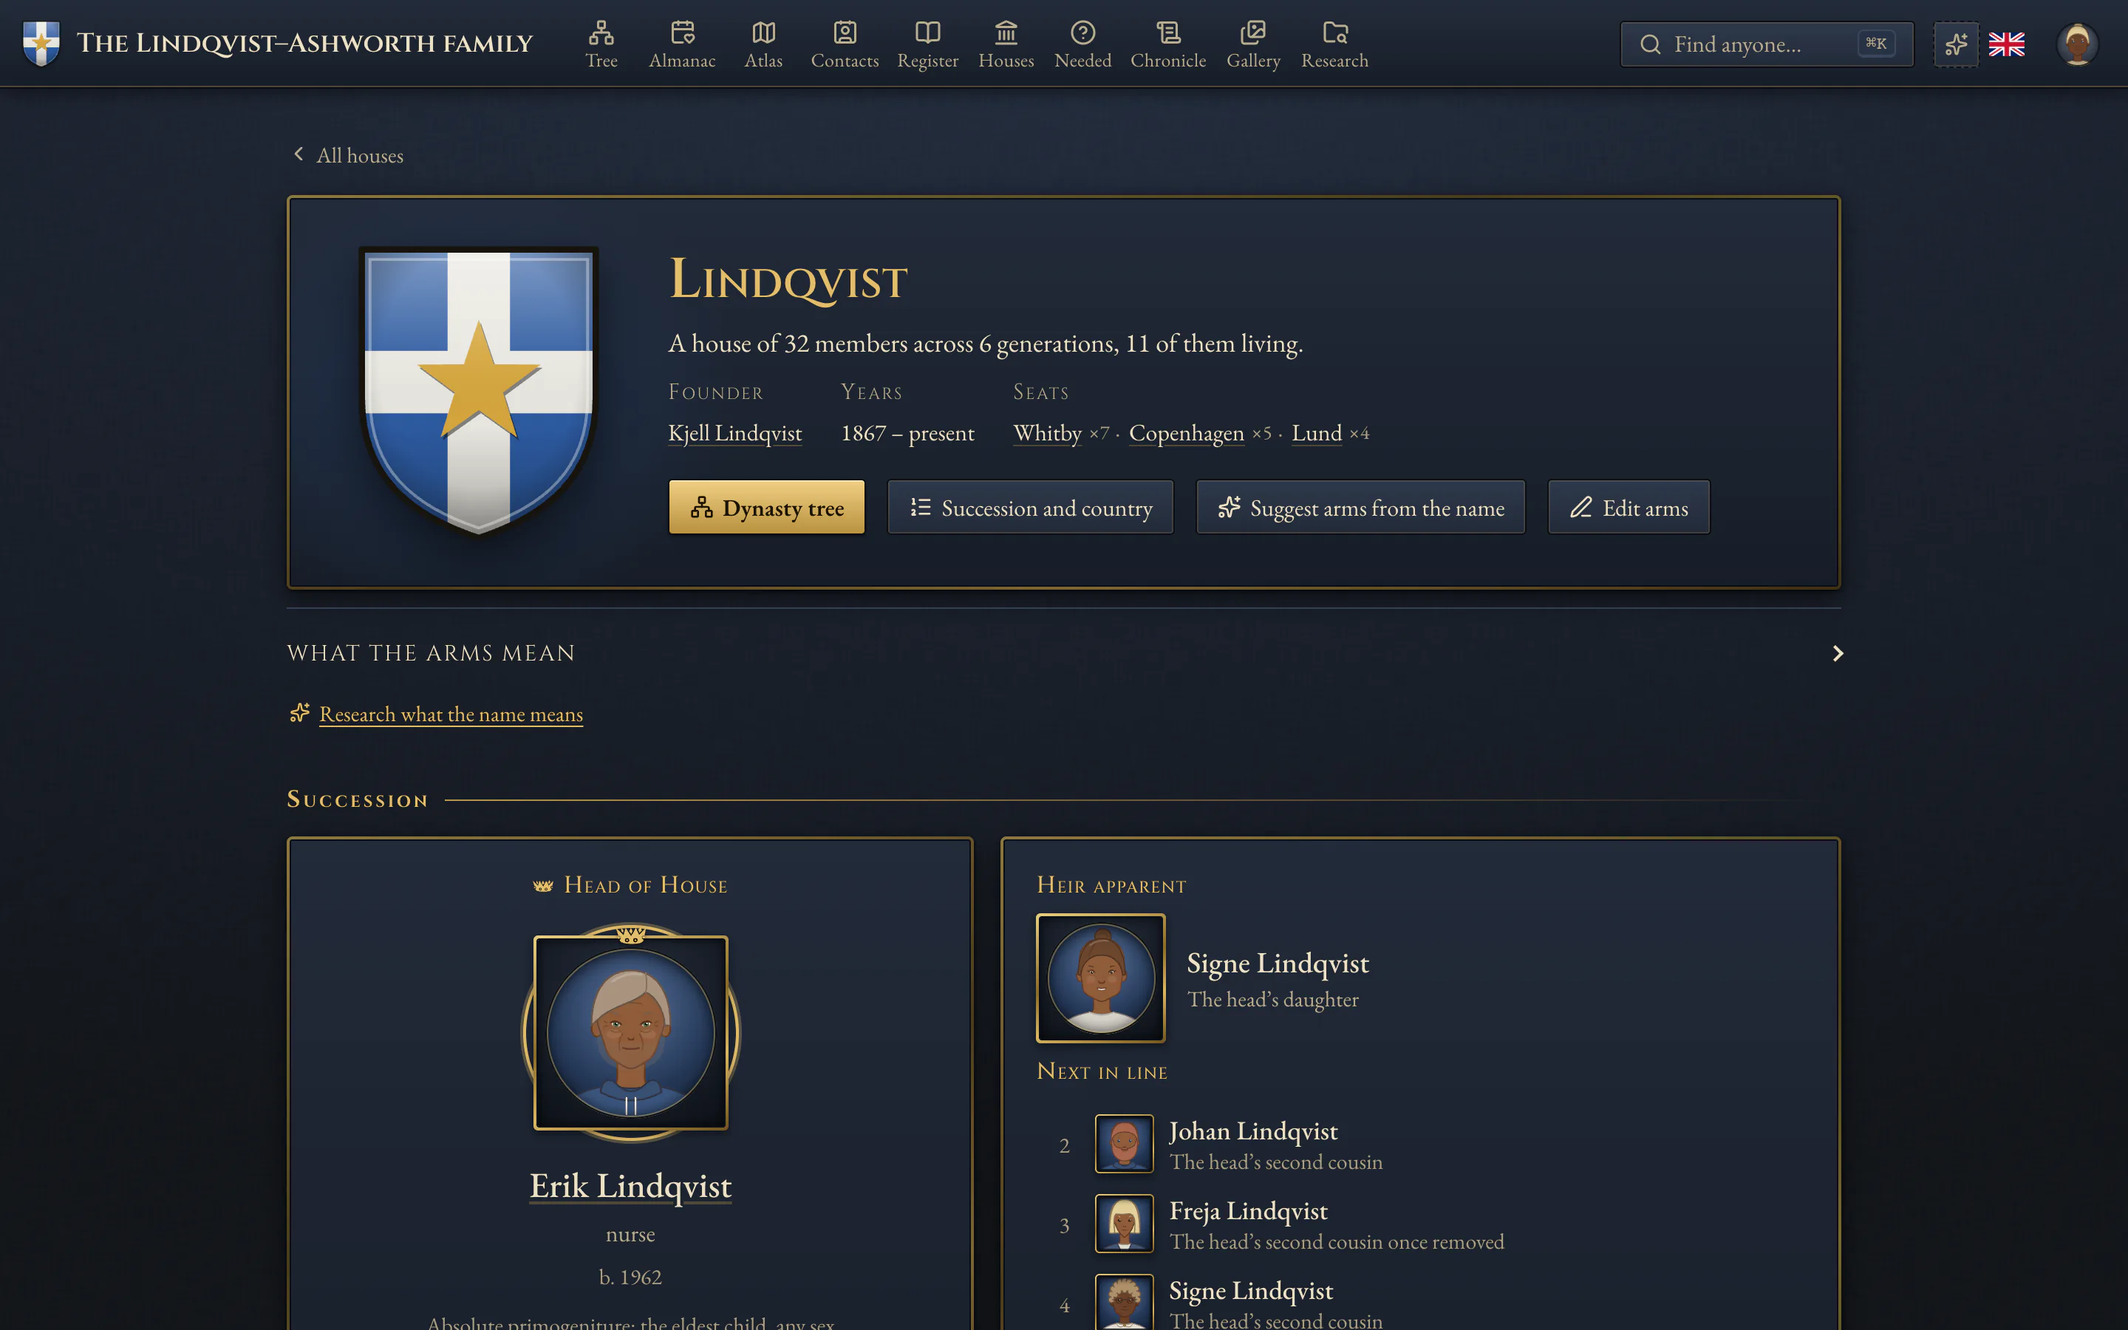
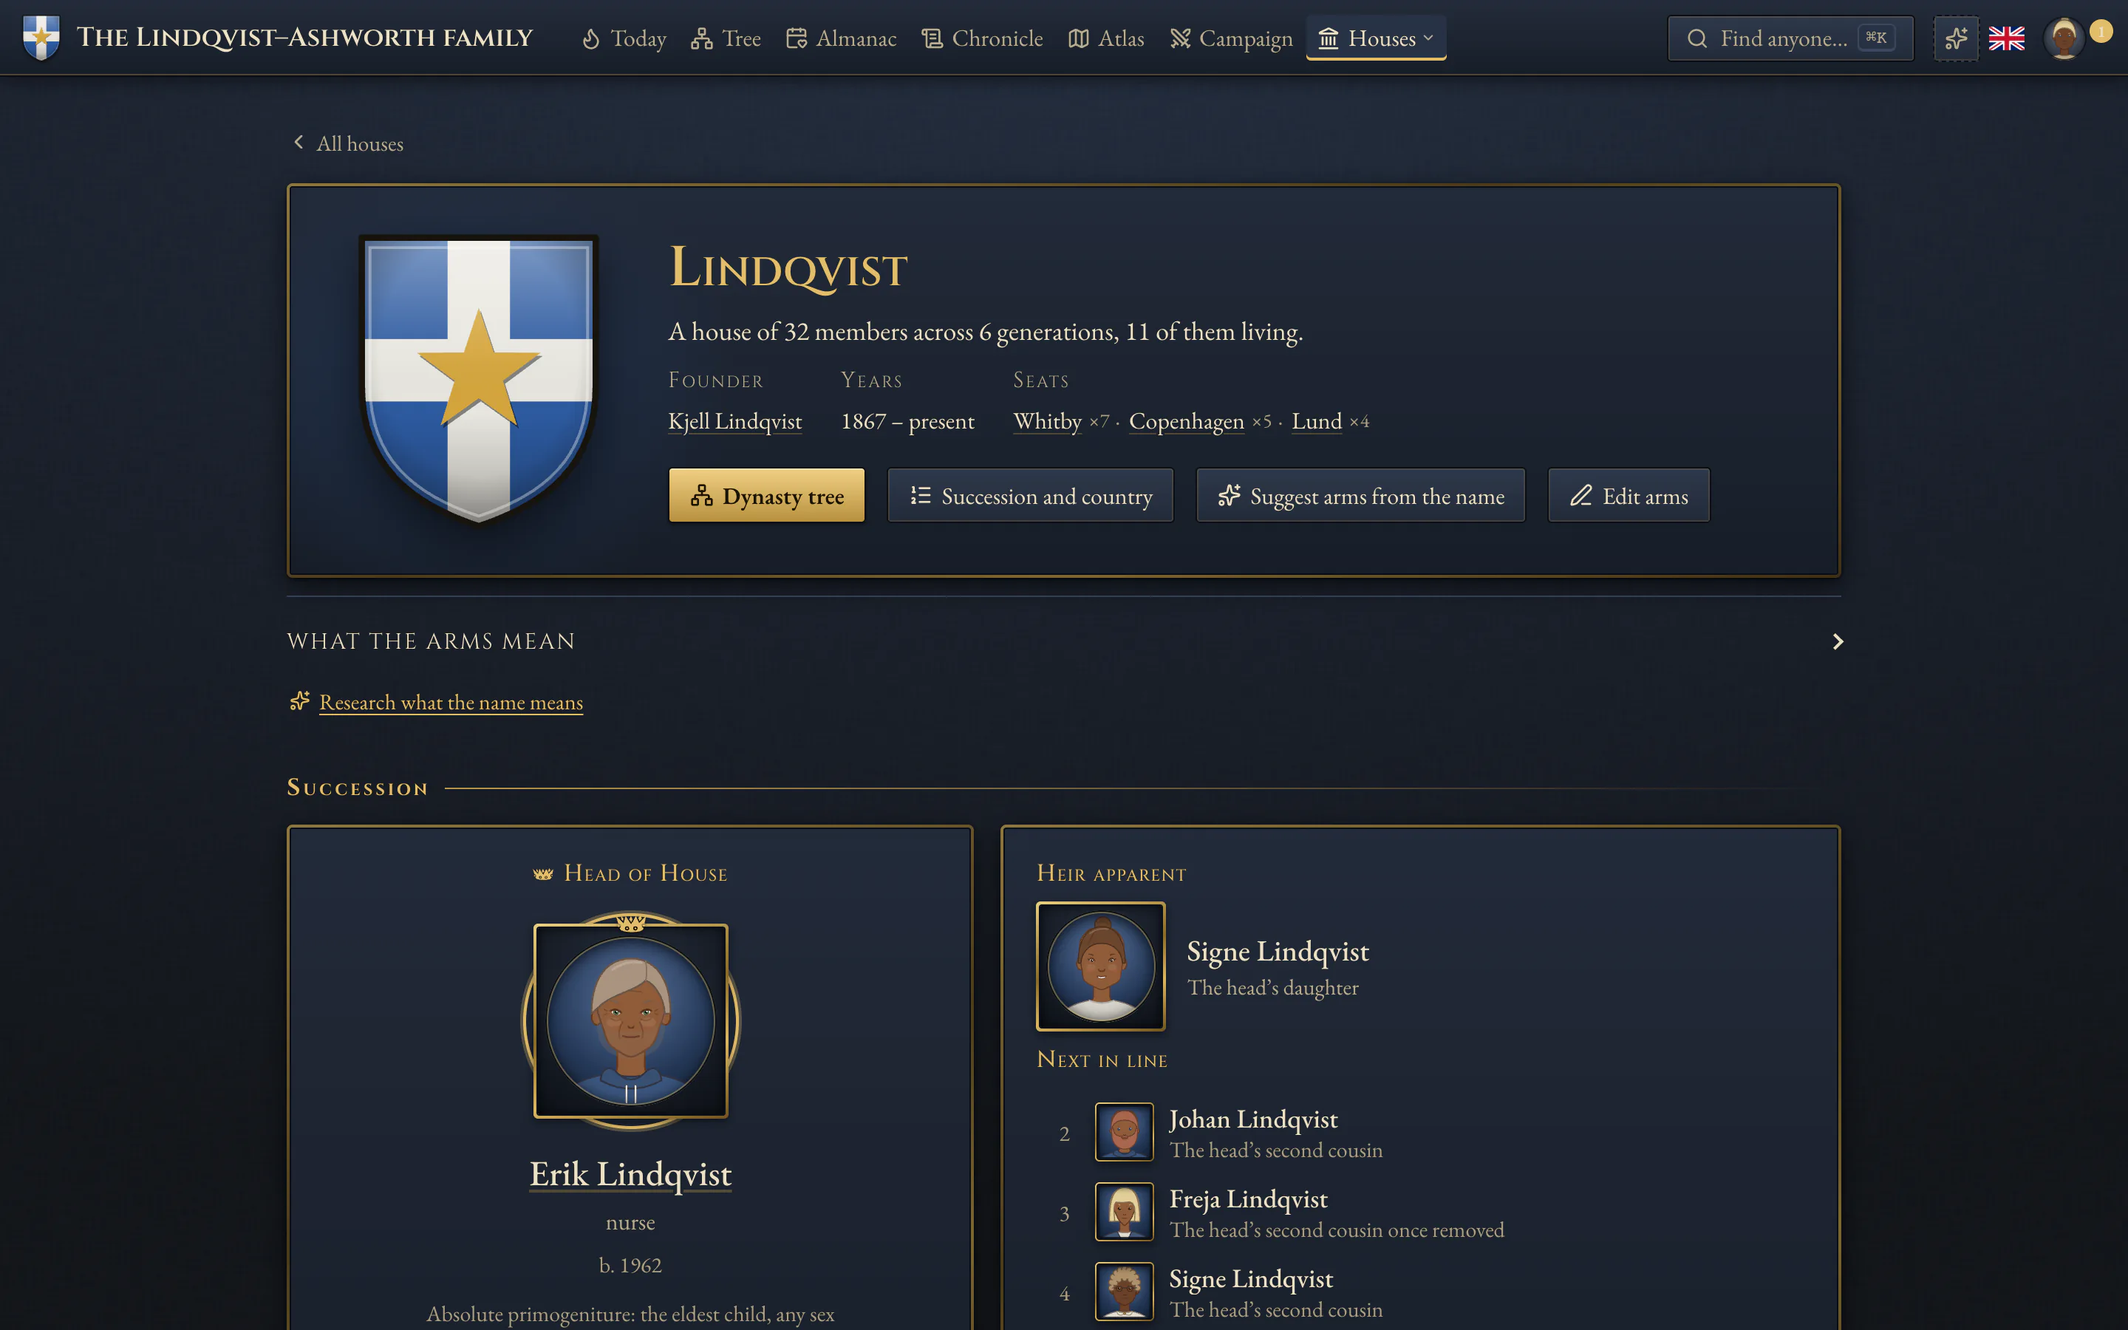
docs(screenshots): add Today, the Campaign and the family book, and retake the rest on a fixed clock

diff --git a/scripts/screenshots.ts b/scripts/screenshots.ts
@@ -7,11 +7,15 @@
 //   --use-dist  skip the build and serve the dist/ that is already there (built with KINDRED_TARGET=node)
 //   --only      take just these pictures (names as in SHOTS below)
 //   --out       write the pictures here instead of docs/images/
+//   --keep-png  also leave the full-size PNGs beside the WebP files (to look at them)
+// The server runs on a clock of its own (scripts/lib/shot-clock.ts): first on 3 November 2026, when the steward turns the
+// Campaign on and a relative is invited, then on 7 November, the day the invented modern family is set on, so the season is
+// four days old, the week's question is the same every time, and the pictures differ between runs only where the data does.
 // Screenshots are PNG from Playwright; cwebp (brew install webp) makes the WebP files, at the best quality that fits
 // MAX_BYTES. The scratch folder and the server are removed again whether or not a step fails.
 import { chromium, type BrowserContext, type Page } from '@playwright/test';
 import { spawn, spawnSync, type ChildProcess } from 'node:child_process';
-import { existsSync, mkdirSync, mkdtempSync, readFileSync, rmSync, statSync, writeFileSync } from 'node:fs';
+import { copyFileSync, existsSync, mkdirSync, mkdtempSync, readFileSync, rmSync, statSync, writeFileSync } from 'node:fs';
 import { createServer } from 'node:net';
 import { tmpdir } from 'node:os';
 import { join, resolve } from 'node:path';
@@ -22,6 +26,7 @@ process.chdir(root);
 const args = process.argv.slice(2);
 const useDist = args.includes('--use-dist');
 const flagValue = (name: string) => { const i = args.indexOf(name); return i >= 0 ? args[i + 1] : undefined; };
+const keepPng = args.includes('--keep-png');
 const only = flagValue('--only')?.split(',');
 const outDir = resolve(flagValue('--out') ?? 'docs/images');
 
@@ -30,6 +35,9 @@ const executablePath = process.env.KINDRED_E2E_BROWSER || (existsSync(BRAVE) ? B
 const SETUP_CODE = 'SHOT-TEST-SETUP-CODE';
 /** The size every picture is taken at: CSS pixels, at twice the density. */
 const VIEWPORT = { width: 1440, height: 900 };
+/** The day the invented modern family is set on (gen-modern.ts), and the day the Campaign's season began four days before. */
+const NOW = '2026-11-07T12:00:00Z';
+const SEASON_START = '2026-11-03T12:00:00Z';
 /** Aim for no more than this per WebP file (cwebp's size search lands a little over or under), in bytes: the README is the front page and loads four or five of them. */
 const MAX_BYTES = 145_000;
 
@@ -87,10 +95,10 @@ async function createAccount(page: Page, origin: string, name: string) {
   await page.waitForURL((u) => !u.pathname.startsWith('/setup'), { timeout: 30_000 });
 }
 
-/** Opens a family's tree and answers "Who are you in this family?" with the person the seed opens on. */
-async function sayWhoIAm(page: Page, origin: string, tree: string) {
+/** Opens a family's tree and answers "Who are you in this family?" with the given person (the one the seed opens on by default). */
+async function sayWhoIAm(page: Page, origin: string, tree: string, personId?: string) {
   const s = seed(tree);
-  const me = s.people.find((p) => p.id === s.focus)!;
+  const me = s.people.find((p) => p.id === (personId ?? s.focus))!;
   await page.goto(`${origin}/${tree}`);
   const dialog = page.getByRole('dialog');
   await dialog.waitFor({ timeout: 20_000 });
@@ -103,7 +111,77 @@ async function sayWhoIAm(page: Page, origin: string, tree: string) {
   await offer.getByRole('button', { name: 'Not now' }).click({ timeout: 8000 }).catch(() => undefined);
 }
 
-interface Shot { name: string; run(page: Page, origin: string): Promise<void> }
+/** A steward makes an invitation link on the Access page, the way the page's own button does. */
+async function invite(page: Page, origin: string, tree: string): Promise<string> {
+  await page.goto(`${origin}/${tree}/access`);
+  await settle(page);
+  await page.getByRole('button', { name: 'Invite someone' }).first().click();
+  const dialog = page.getByRole('dialog');
+  await dialog.getByRole('button', { name: 'Make an invitation link' }).click();
+  const url = await dialog.getByRole('textbox', { name: 'Invitation link' }).inputValue();
+  await dialog.getByRole('button', { name: 'Done' }).click();
+  return url;
+}
+
+/** A relative opens an invitation in a browser of their own (with a virtual passkey) and says who they are. */
+async function joinByInvite(page: Page, origin: string, url: string, name: string, tree: string, personId: string) {
+  const cdp = await page.context().newCDPSession(page);
+  await cdp.send('WebAuthn.enable', { enableUI: false });
+  await cdp.send('WebAuthn.addVirtualAuthenticator', {
+    options: { protocol: 'ctap2', transport: 'internal', hasResidentKey: true, hasUserVerification: true, isUserVerified: true, automaticPresenceSimulation: true },
+  });
+  await page.goto(url.replace(/^https?:\/\/[^/]+/, origin));
+  await page.getByRole('textbox', { name: 'What should the family call you?' }).fill(name);
+  await page.getByRole('button', { name: 'Create your passkey' }).click();
+  await page.waitForURL((u) => !u.pathname.startsWith('/invite'), { timeout: 30_000 }).catch(() => undefined);
+  await sayWhoIAm(page, origin, tree, personId);
+}
+
+/** Switches a game on or off under Games, as a steward does. */
+async function setGame(page: Page, origin: string, tree: string, name: string, on: boolean) {
+  await page.goto(`${origin}/${tree}/settings/games`);
+  await settle(page);
+  const toggle = page.getByRole('switch', { name });
+  if ((await toggle.getAttribute('aria-checked')) !== String(on)) await toggle.click();
+  await page.locator(`[role="switch"][aria-checked="${on}"]`).first().waitFor();
+}
+
+/** Answers this week's question on Today from the person the dialog starts with (the reader, if they said who they are). */
+async function answerQuestion(page: Page, origin: string, tree: string, text: string) {
+  await page.goto(`${origin}/${tree}/today`);
+  await settle(page);
+  const week = page.getByRole('region', { name: 'Question of the week' });
+  await week.getByRole('button', { name: 'Tell your story' }).click();
+  const dialog = page.getByRole('dialog', { name: 'Your answer' });
+  await dialog.getByLabel('What do you remember?').fill(text);
+  await dialog.getByRole('button', { name: 'Share with the family' }).click();
+  await dialog.waitFor({ state: 'detached' });
+  await week.getByRole('heading', { name: /answers? this week/ }).waitFor();
+}
+
+/**
+ * Takes today's quiz. The choices come in an order the server's seed fixes (family, day), and on 7 November that gives the
+ * same question every run, so the picture shows a right answer by taking the choice that is right on that day: the second.
+ */
+const QUIZ_PICK = 1;
+/** (The server judges; a different day would only make the picture show "Not quite".) */
+async function takeQuiz(page: Page, origin: string, tree: string) {
+  await page.goto(`${origin}/${tree}/today`);
+  await settle(page);
+  const quiz = page.getByRole('region', { name: 'Do you know your family?' });
+  const radios = quiz.getByRole('radio');
+  if (await radios.count()) await radios.nth(QUIZ_PICK).check();
+  await quiz.getByRole('button', { name: 'That is my answer' }).click();
+  await quiz.getByRole('status').waitFor();
+}
+
+interface Shot { name: string; /** The viewport's height, for a page that wants more than 900 px. */ height?: number; run(page: Page, origin: string): Promise<void> }
+
+/** What the family writes in answer to the week's question on 7 November ("What did the kitchen of your childhood look like?"): invented, and short enough to read in a picture. */
+const ANSWERS = {
+  steward: 'A wood stove that was never allowed to go out, a yellow oilcloth on the table, and a jar of cardamom buns on the shelf above the sink. It smelled of coffee from five in the morning.',
+  relative: 'It was small and always warm. Everyone sat on the bench along the wall, so there was never a chair for the person who was cooking, and my aunt Signe stood and stirred the whole time.',
+};
 
 const SHOTS: Shot[] = [
   {
@@ -117,14 +195,54 @@ const SHOTS: Shot[] = [
   {
     name: 'person',
     async run(page, origin) {
-      await page.goto(`${origin}/realm/person/p0001`);
+      await page.goto(`${origin}/modern/person/p0061`);
+      await settle(page);
       await grab(page, 'person');
+    },
+  },
+  {
+    name: 'today',
+    height: 1700,
+    async run(page, origin) {
+      await page.goto(`${origin}/modern/today`);
+      await settle(page);
+      await grab(page, 'today');
+    },
+  },
+  {
+    name: 'campaign',
+    height: 1085,
+    async run(page, origin) {
+      await page.goto(`${origin}/modern/campaign`);
+      await settle(page);
+      // A province of the house with an order on it: raise its garrison, then get an attack on a neighbour ready to send.
+      await page.locator('.cm-prov[data-mine]').first().click();
+      const orders = page.getByRole('complementary', { name: 'Your orders' });
+      await orders.getByRole('button', { name: /^Muster \d+ troops? at / }).click();
+      await orders.getByRole('region', { name: 'Chronicle of the campaign' }).or(page.getByRole('region', { name: 'Chronicle of the campaign' })).getByText(/mustered/).first().waitFor();
+      await orders.getByRole('button', { name: 'Attack' }).first().click();
+      await orders.getByLabel(/battle cry/i).fill('For Grandma!');
+      await grab(page, 'campaign');
+    },
+  },
+  {
+    name: 'book',
+    height: 1210,
+    async run(page, origin) {
+      await page.goto(`${origin}/modern/print?product=book&scope=person&person=p0146`);
+      await settle(page);
+      await page.locator('.pr-doc').and(page.locator('[data-ready="true"]')).waitFor();
+      // The person's own page, the one after the cover and the contents.
+      await page.locator('.pr-sheet').nth(2).scrollIntoViewIfNeeded();
+      await page.locator('.pr-sheet').nth(2).evaluate((el) => el.scrollIntoView({ block: 'start' }));
+      await grab(page, 'book');
     },
   },
   {
     name: 'house',
     async run(page, origin) {
       await page.goto(`${origin}/modern/house/lindqvist`);
+      await settle(page);
       await grab(page, 'house');
     },
   },
@@ -133,7 +251,14 @@ const SHOTS: Shot[] = [
     async run(page, origin) {
       await page.goto(`${origin}/modern/atlas`);
       await settle(page);
-      await page.getByRole('button', { name: /Show all/ }).click();
+      // Zoom out until every place is in view (the note about places beyond the view goes), as a visitor would with the wheel.
+      await page.mouse.move(1100, 450);
+      for (let i = 0; i < 8 && (await page.locator('.atlas-scope-btn').count()); i++) {
+        await page.mouse.wheel(0, 120);
+        await sleep(500);
+      }
+      await page.mouse.move(0, 0);
+      await settle(page);
       await grab(page, 'atlas');
     },
   },
@@ -161,9 +286,9 @@ const SHOTS: Shot[] = [
         reducedMotion: 'reduce',
       });
       try {
-        await phone.clock.install({ time: new Date('2026-11-07T12:00:00Z') });
+        await phone.clock.install({ time: new Date(NOW) });
         const small = await phone.newPage();
-        await small.goto(`${origin}/modern?focus=p0084`);
+        await small.goto(`${origin}/modern/today`);
         await grab(small, 'phone');
       } finally {
         await phone.close();
@@ -196,11 +321,13 @@ function toWebp(name: string) {
   mkdirSync(outDir, { recursive: true });
   const target = join(outDir, `${name}.webp`);
   sh(`cwebp ${name}`, 'cwebp', ['-quiet', '-m', '6', '-pass', '10', '-sharp_yuv', '-size', String(MAX_BYTES), join(raw, `${name}.png`), '-o', target]);
+  if (keepPng) copyFileSync(join(raw, `${name}.png`), join(outDir, `${name}.png`));
   log(`  ${name}.webp  ${(statSync(target).size / 1024).toFixed(1)} kB`);
 }
 
-async function startServer(port: number, origin: string) {
-  server = spawn(process.execPath, ['server/node.ts'], {
+async function startServer(port: number, origin: string, now: string) {
+  serverLog = '';
+  server = spawn(process.execPath, ['--import', join(root, 'scripts/lib/shot-clock.ts'), 'server/node.ts'], {
     cwd: root,
     stdio: ['ignore', 'pipe', 'pipe'],
     env: {
@@ -213,6 +340,7 @@ async function startServer(port: number, origin: string) {
       KINDRED_AI_FAKE: '1',
       KINDRED_JOBS: 'off',
       KINDRED_SETUP_CODE: SETUP_CODE,
+      KINDRED_SHOT_NOW: now,
     },
   });
   const keep = (d: Buffer) => { serverLog = (serverLog + d.toString()).slice(-4000); };
@@ -253,31 +381,36 @@ async function main() {
   sh('gen-modern', process.execPath, ['scripts/gen-modern.ts']);
   sh('seed', process.execPath, ['scripts/seed.ts', 'data/seed/realm.json', 'data/seed/modern.json'], { KINDRED_DATA_DIR: dataDir });
 
-  const port = await freePort(5361);
+  const port = await freePort(4632);
   const origin = `http://localhost:${port}`;
   log(`starting the server on ${origin}`);
-  await startServer(port, origin);
+  await startServer(port, origin, SEASON_START);
 
   const browser = await chromium.launch({ executablePath, args: ['--hide-scrollbars'] });
   try {
-    const context: BrowserContext = await browser.newContext({
-      viewport: VIEWPORT,
-      deviceScaleFactor: 2,
-      locale: 'en-GB',
-      timezoneId: 'UTC',
-      colorScheme: 'light',
-      reducedMotion: 'reduce',
-    });
-    // The day the invented modern family is set on (gen-modern.ts), so ages and "today" read the same on every run.
-    await context.clock.install({ time: new Date('2026-11-07T12:00:00Z') });
-    await context.addInitScript(() => {
-      try {
-        localStorage.setItem('kindred:theme', 'codex');
-      } catch { /* a locked-down browser */ }
-    });
-    const page = await context.newPage();
+    const open = async () => {
+      const context: BrowserContext = await browser.newContext({
+        viewport: VIEWPORT,
+        deviceScaleFactor: 2,
+        locale: 'en-GB',
+        timezoneId: 'UTC',
+        colorScheme: 'light',
+        reducedMotion: 'reduce',
+      });
+      // The browser's clock follows the server's, so ages, birthdays and "today" read the same on every run.
+      await context.clock.install({ time: new Date(NOW) });
+      await context.addInitScript(() => {
+        try {
+          localStorage.setItem('kindred:theme', 'codex');
+        } catch { /* a locked-down browser */ }
+      });
+      const page = await context.newPage();
+      page.on('pageerror', (e) => aborts.push(e.message));
+      return { context, page };
+    };
     const aborts: string[] = [];
-    page.on('pageerror', (e) => aborts.push(e.message));
+    const { context, page } = await open();
+    const relative = await open();
 
     const realm = seed('realm');
     const steward = realm.people.find((p) => p.id === realm.focus)!;
@@ -286,8 +419,30 @@ async function main() {
     await sayWhoIAm(page, origin, 'realm');
     await sayWhoIAm(page, origin, 'modern');
 
+    // Four days before the day of the pictures: the steward starts the Campaign, and invites a relative.
+    log('turning the Campaign on, and inviting a relative');
+    await setGame(page, origin, 'modern', 'The Campaign is on for this family', true);
+    const link = await invite(page, origin, 'modern');
+    await joinByInvite(relative.page, origin, link, 'Johan Lindqvist', 'modern', 'p0018');
+
+    // The day of the pictures: the season is four days old, and the family has been busy.
+    log('moving the server to the day of the pictures');
+    await stopServer();
+    await startServer(port, origin, NOW);
+    log('answering the question, taking the quiz, playing the Campaign');
+    await answerQuestion(relative.page, origin, 'modern', ANSWERS.relative);
+    await answerQuestion(page, origin, 'modern', ANSWERS.steward);
+    await takeQuiz(page, origin, 'modern');
+    await page.goto(`${origin}/modern/campaign`);
+    await settle(page);
+    await page.getByRole('dialog', { name: 'How the Campaign works' }).getByRole('button', { name: 'To the map' }).click({ timeout: 4000 }).catch(() => undefined);
+    await page.getByRole('button', { name: 'Serve Lindqvist' }).click();
+    await page.getByRole('complementary', { name: 'Your orders' }).getByTestId('orders-left').waitFor();
+    await relative.context.close();
+
     for (const shot of wanted) {
       log(`taking ${shot.name}`);
+      await page.setViewportSize({ width: VIEWPORT.width, height: shot.height ?? VIEWPORT.height });
       await shot.run(page, origin);
       toWebp(shot.name);
     }

diff --git a/scripts/lib/shot-clock.ts b/scripts/lib/shot-clock.ts
@@ -1,0 +1,13 @@
+// Preloaded into the screenshot script's server (node --import): moves the server's clock so that "now" is the instant in
+// KINDRED_SHOT_NOW when the process starts, and lets it run on from there. The pictures are then the same on every run:
+// the week's question, the quiz, the campaign's day and every "x days ago" no longer depend on the day they were taken.
+const target = Date.parse(process.env.KINDRED_SHOT_NOW ?? '');
+if (!Number.isNaN(target)) {
+  const offset = target - Date.now();
+  const Real = Date;
+  globalThis.Date = new Proxy(Real, {
+    construct: (t, args, nt) => Reflect.construct(t, args.length ? args : [Real.now() + offset], nt),
+    get: (t, p, r) => (p === 'now' ? () => Real.now() + offset : Reflect.get(t, p, r)),
+    apply: () => new Date().toString(),
+  });
+}
